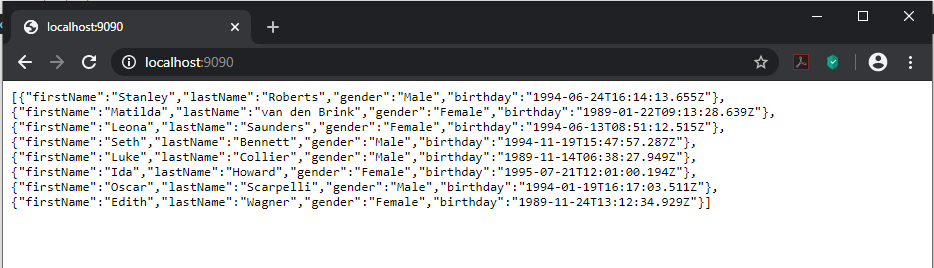
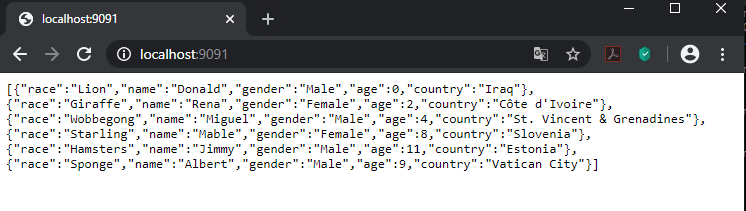
Fix Step 2 : We cannot implements students, we have to read more carefully, so we have implements some animals

diff --git a/docker-images/express-image/src/index.js b/docker-images/express-image/src/index.js
@@ -1,43 +1,38 @@
-var Chance = require('chance');
-var chance = new Chance();
+var chance = require('chance');
+var chance = new chance();
 
 var express = require('express');
 var app = express();
 
 app.get('/', function(req, res){
-    res.send(generateStudents());
+    res.send(generateAnimals());
 });
 
 app.listen(3000, function(){
     console.log('Accepting HTTP requests on port 3000!');
 });
 
-function generateStudents(){
-	var numberOfStudents = chance.integer({
+
+function generateAnimals(){
+	var numberOfAnimals = chance.integer({
 		min : 1,
 		max : 10
 	});
 	
-	console.log(numberOfStudents);
+	console.log(numberOfAnimals);
 	
-	var students = [];
-	for(var i = 0; i < numberOfStudents; ++i){
+	var animals = [];
+	
+	for(var i = 0; i < numberOfAnimals; ++i){
         var gender = chance.gender();
-		var birthYear = chance.year({
-			min: 1986,
-			max: 1996
+		animals.push({
+            'race'      : chance.animal(),
+            'name'      : chance.first({ gender: gender }),
+            'gender'    : gender,
+            'age'       : chance.age({type: 'child'}),
+            'country'   : chance.country({ full: true })
 		});
-		students.push({
-            firstName: chance.first({
-				gender: gender
-			}),
-			lastName: chance.last(),
-			gender: gender,
-			birthday: chance.birthday({
-				year: birthYear
-			})
-		});
-	};
-	console.log(students);
-	return students;
+	}
+	console.log(animals);
+	return animals;
 }

diff --git a/rapport.md b/rapport.md
@@ -77,60 +77,54 @@ Puis, afin d'utiliser les modules _chance_ et _express_ , il faut taper `npm ins
 Ain de vérifier le fonctionnement de tout ceci, il a fallu créer un fichier `index.js` dans ce dossier `src` et implémenter l'application comme suit: 
 
 ```bash
-var Chance = require('chance');
-var chance = new Chance();
+var chance = require('chance');
+var chance = new chance();
 
 var express = require('express');
 var app = express();
 
 app.get('/', function(req, res){
-    res.send(generateStudents());
+    res.send(generateAnimals());
 });
 
 app.listen(3000, function(){
     console.log('Accepting HTTP requests on port 3000!');
 });
 
-function generateStudents(){
-	var numberOfStudents = chance.integer({
+function generateAnimals(){
+	var numberOfAnimals = chance.integer({
 		min : 1,
 		max : 10
 	});
 	
-	console.log(numberOfStudents);
+	console.log(numberOfAnimals);
 	
-	var students = [];
-	for(var i = 0; i < numberOfStudents; ++i){
+	var animals = [];
+	
+	for(var i = 0; i < numberOfAnimals; ++i){
         var gender = chance.gender();
-		var birthYear = chance.year({
-			min: 1986,
-			max: 1996
+		animals.push({
+            'race'      : chance.animal(),
+            'name'      : chance.first({ gender: gender }),
+            'gender'    : gender,
+            'age'       : chance.age({type: 'child'}),
+            'country'   : chance.country({ full: true })
 		});
-		students.push({
-            firstName: chance.first({
-				gender: gender
-			}),
-			lastName: chance.last(),
-			gender: gender,
-			birthday: chance.birthday({
-				year: birthYear
-			})
-		});
-	};
-	console.log(students);
-	return students;
+	}
+	console.log(animals);
+	return animals;
 }
 ```
 
-Nous voyons ici que l'on écoute les requêtes sur le port 3000 et qu'à toute requête de type GET sur la cible '/', nous y générons un tableau avec un nombre d'étudiant aléatoire (1 à 10) possédant un genre, une date de naissance, un nom et prénom. Ensuite, ce tableau au format _json_ est envoyé en réponse au client connecté sur le port 3000 (à l'aide de telnet ou d'un naviagateur web).
+Nous voyons ici que l'on écoute les requêtes sur le port 3000 et qu'à toute requête de type *GET* sur la cible '/', nous y générons un tableau avec un nombre d'animaux aléatoire (1 à 10) possédant une race, un nom, un genre, un age et un pays. Ensuite, ce tableau au format _json_ est envoyé en réponse au client connecté sur le port 3000 (à l'aide de telnet ou d'un naviagateur web).
 
 <u>**Test**</u>  
 
 On ouvre une invite de commande à l'endroit où se trouve le fichier Dockerfile afin de créer une image et de lancer le container à partir de cette dernière comme suit: 
 
 ```
-docker build -t res/express_students .
-docker run -p 9091:3000 res/express_students
+docker build -t res/express_animals .
+docker run -p 9091:3000 res/express_animals
 ```
 
 Il faut ensuite ouvrir un navigateur web, taper: `http://localhost:9091/` et le contenu du tableau des étudiants s'affiche. Il est également possible comme mentionné dans le webcast d'utiliser l'application Postman pour envoyer la requête **GET** et recevoir la réponse du serveur. Une autre solution possible est aussi d'utiliser telnet et d'effectuer une requête **HTTP** (`GET / HTTP/1.0 CRLF`).
